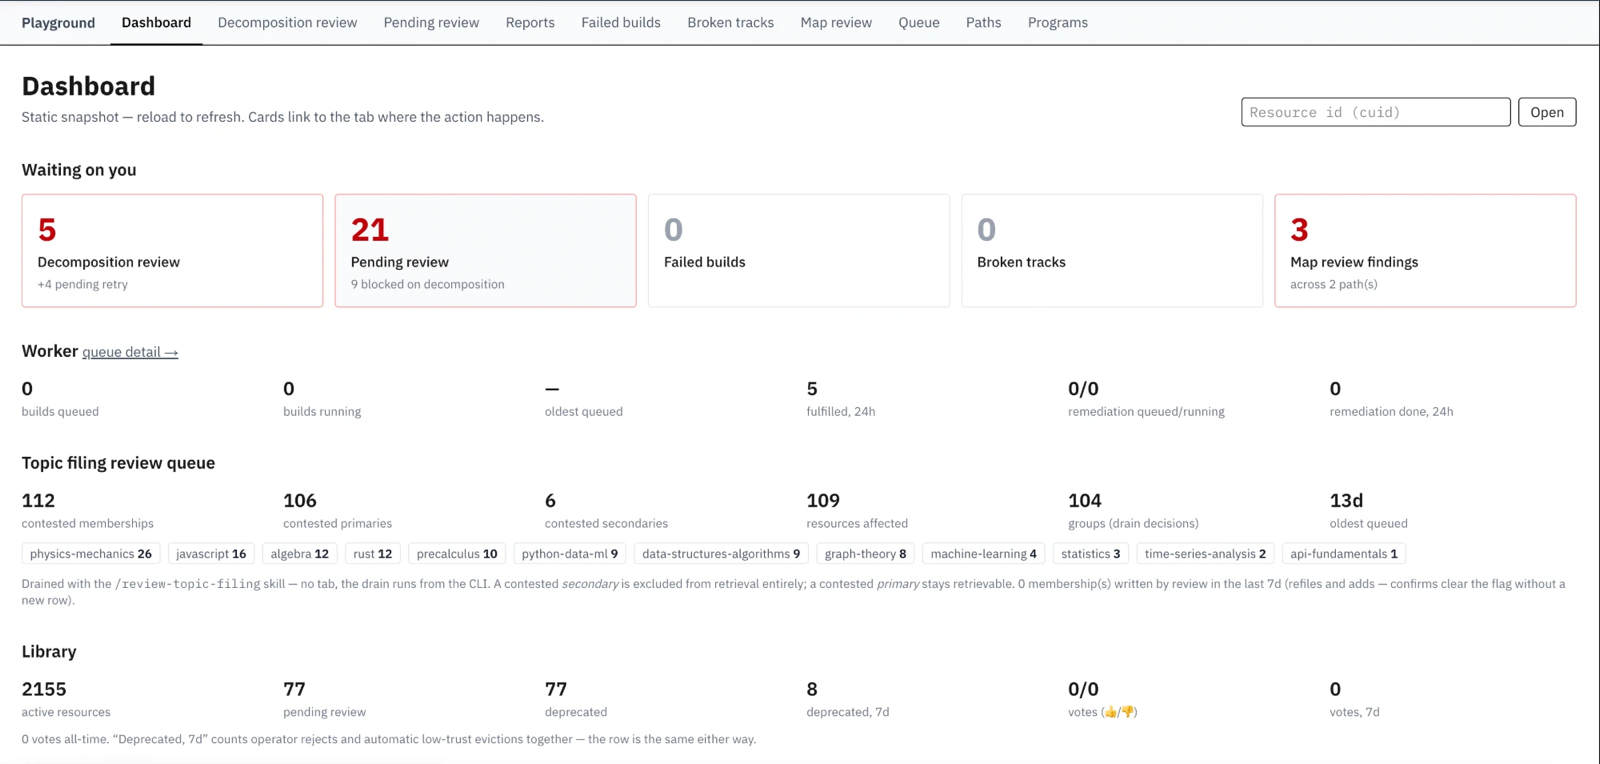
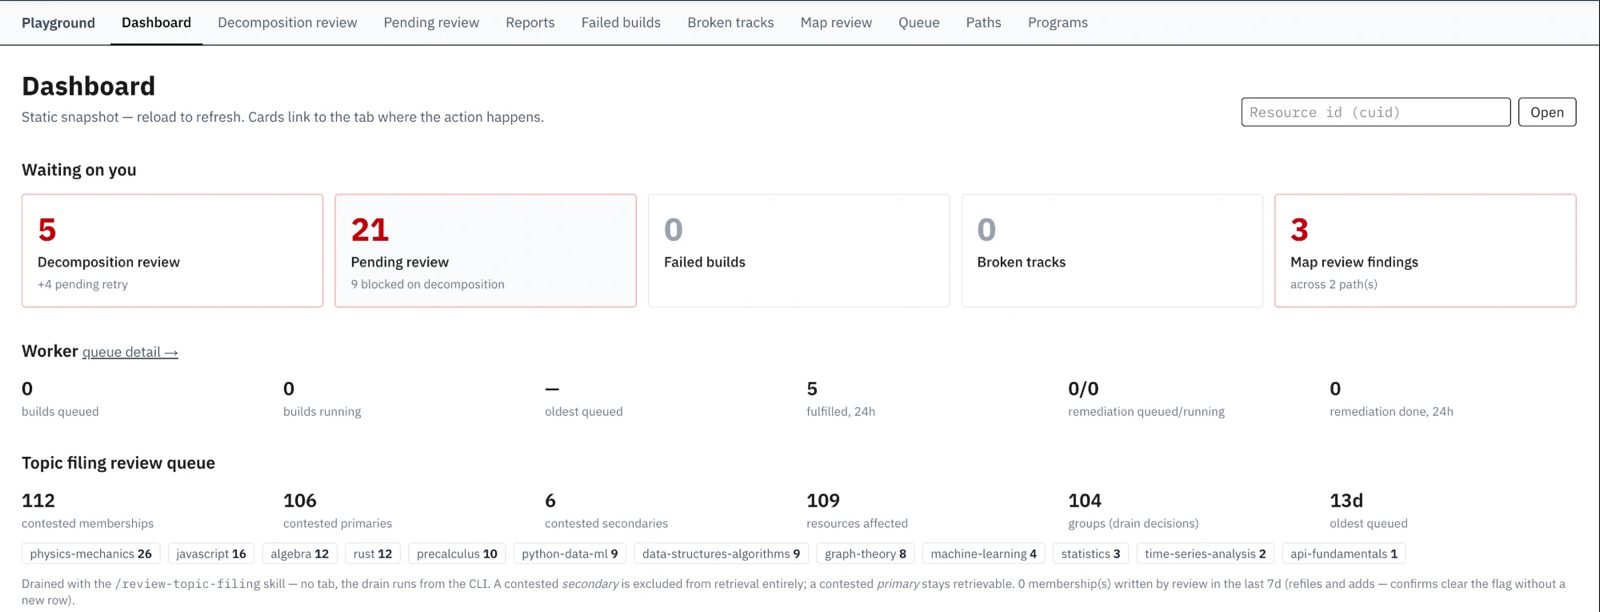
docs: crop library health row off the operator dashboard screenshot

diff --git a/README.md b/README.md
@@ -119,7 +119,7 @@ flowchart TB
 Autonomous curation needs a human escape hatch. `/playground` is an admin-gated console for exactly that: a worker-queue view, failed-build triage, a pending-resource review queue with cascading approve/reject, concept-map review and manual editing, broken-track triage, a resource-report triage inbox, and per-agent execution traces with token accounting.
 
 <p align="center">
-  <img src="docs/images/playground.png" alt="The operator dashboard: review-queue counts, worker and build-queue depth, the topic-filing review backlog broken down by topic, and library health totals." width="900">
+  <img src="docs/images/playground.png" alt="The operator dashboard: review-queue counts, worker and build-queue depth, and the topic-filing review backlog broken down by topic." width="900">
 </p>
 
 The library behind it currently holds **2,155 active resources**, each filed to a topic with provenance, embedded for semantic search, and carrying a trust score that moves as evidence arrives.
